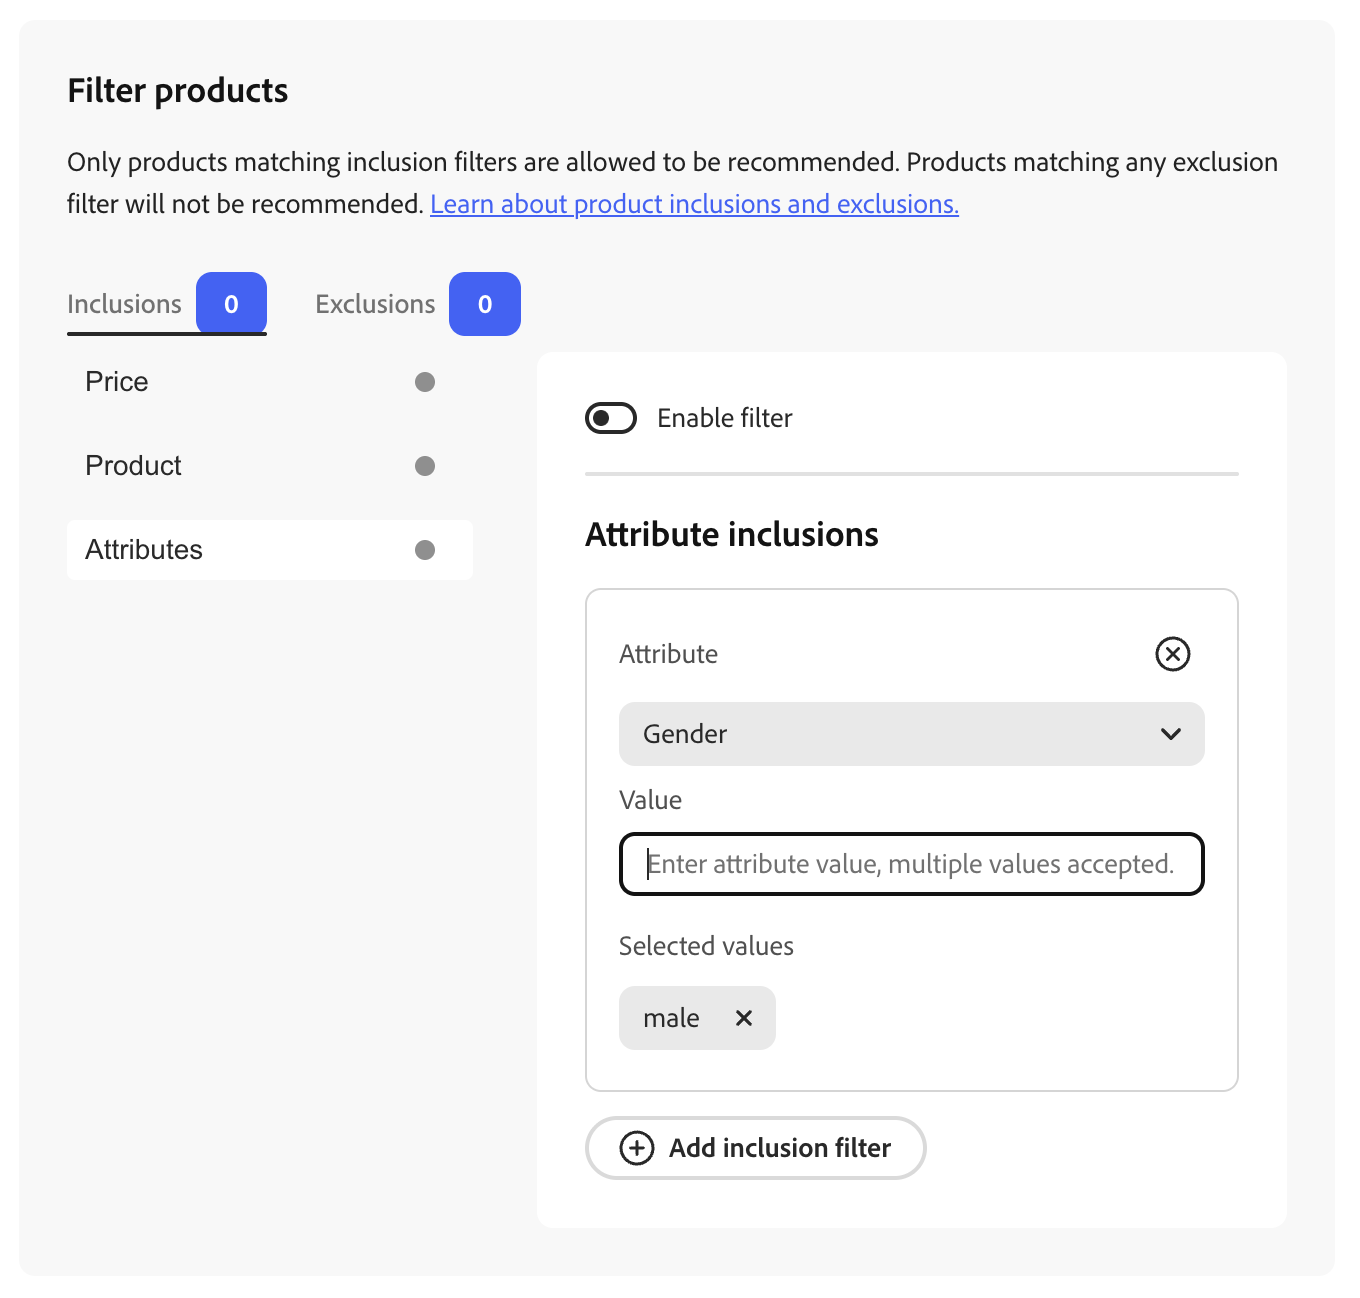
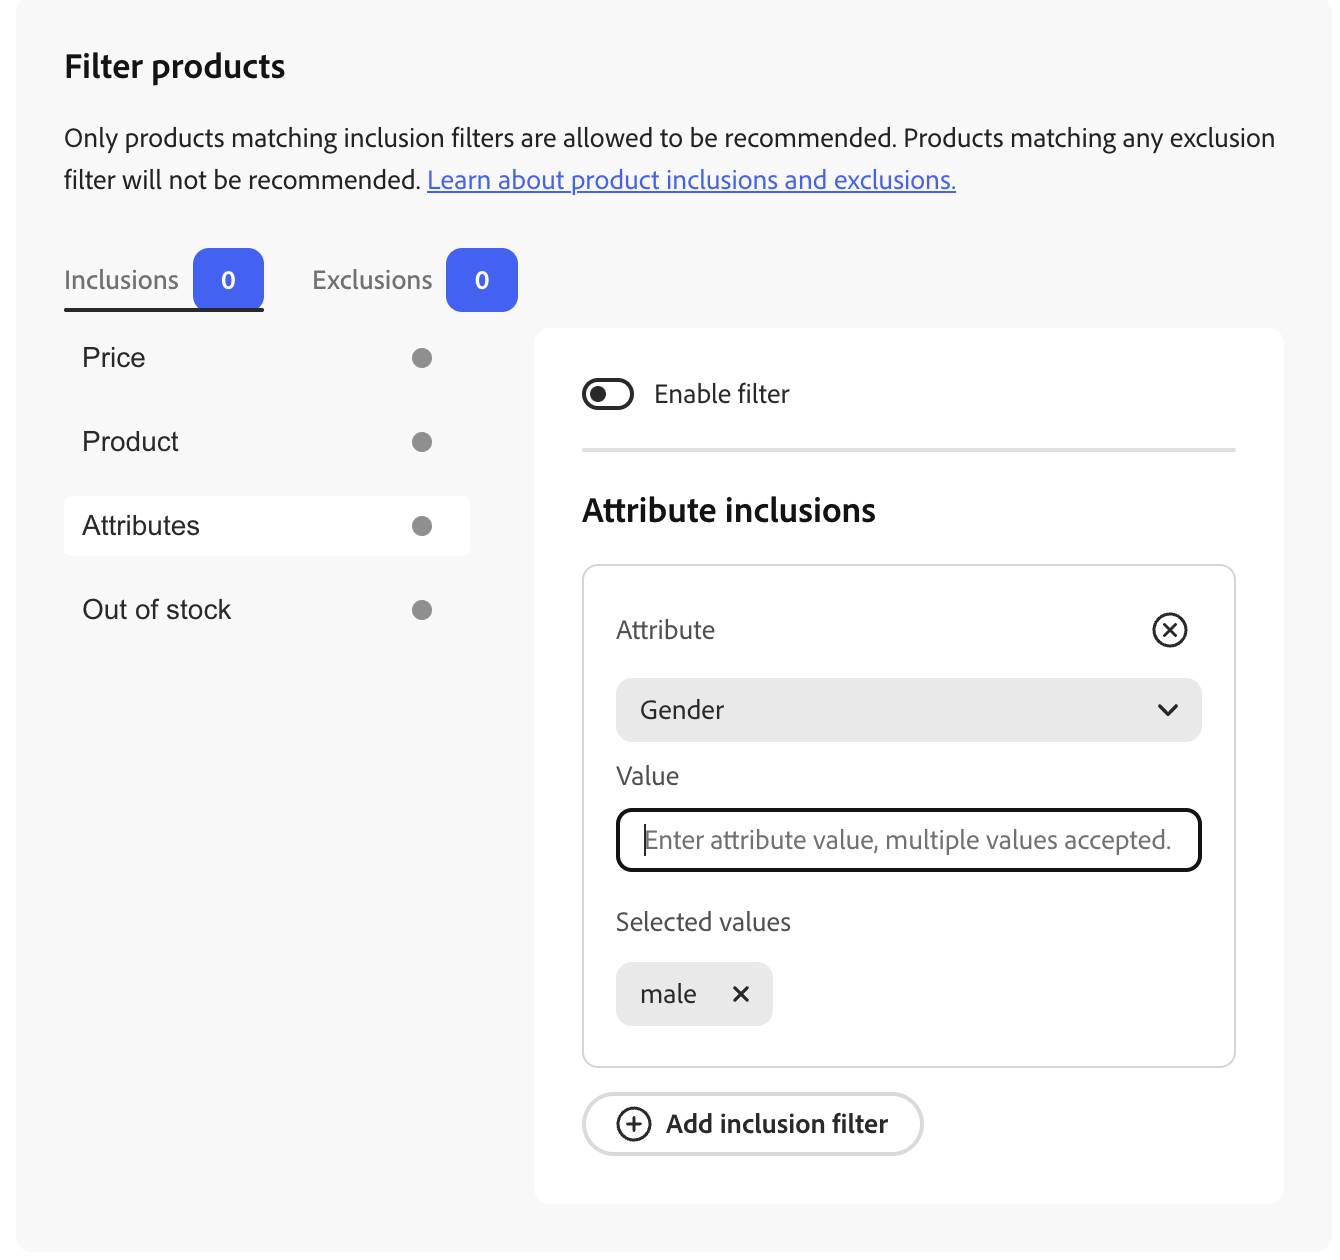
Adding new filtering

diff --git a/help/optimizer/merchandising/recommendations/filters.md b/help/optimizer/merchandising/recommendations/filters.md
@@ -276,3 +276,11 @@ Attribute filter support varies by recommendation type.
 - If there are empty attribute values or invalid conditions, recommendations do not render on the storefront or in the preview panel.
 - Attribute values must exactly match what is in your catalog, this includes spaces and case.
 - If none of the products meet the filter criteria, recommendations do not render on the storefront or in the preview panel.
+
+### Out of stock
+
+The following exclusion filter can be used to filter out products based on stock status:
+
+- Out of stock - (Exclusion only) Excludes products that are out of stock.
+
+![Stock Status Filter](../../assets/filter-stock-status.png)
